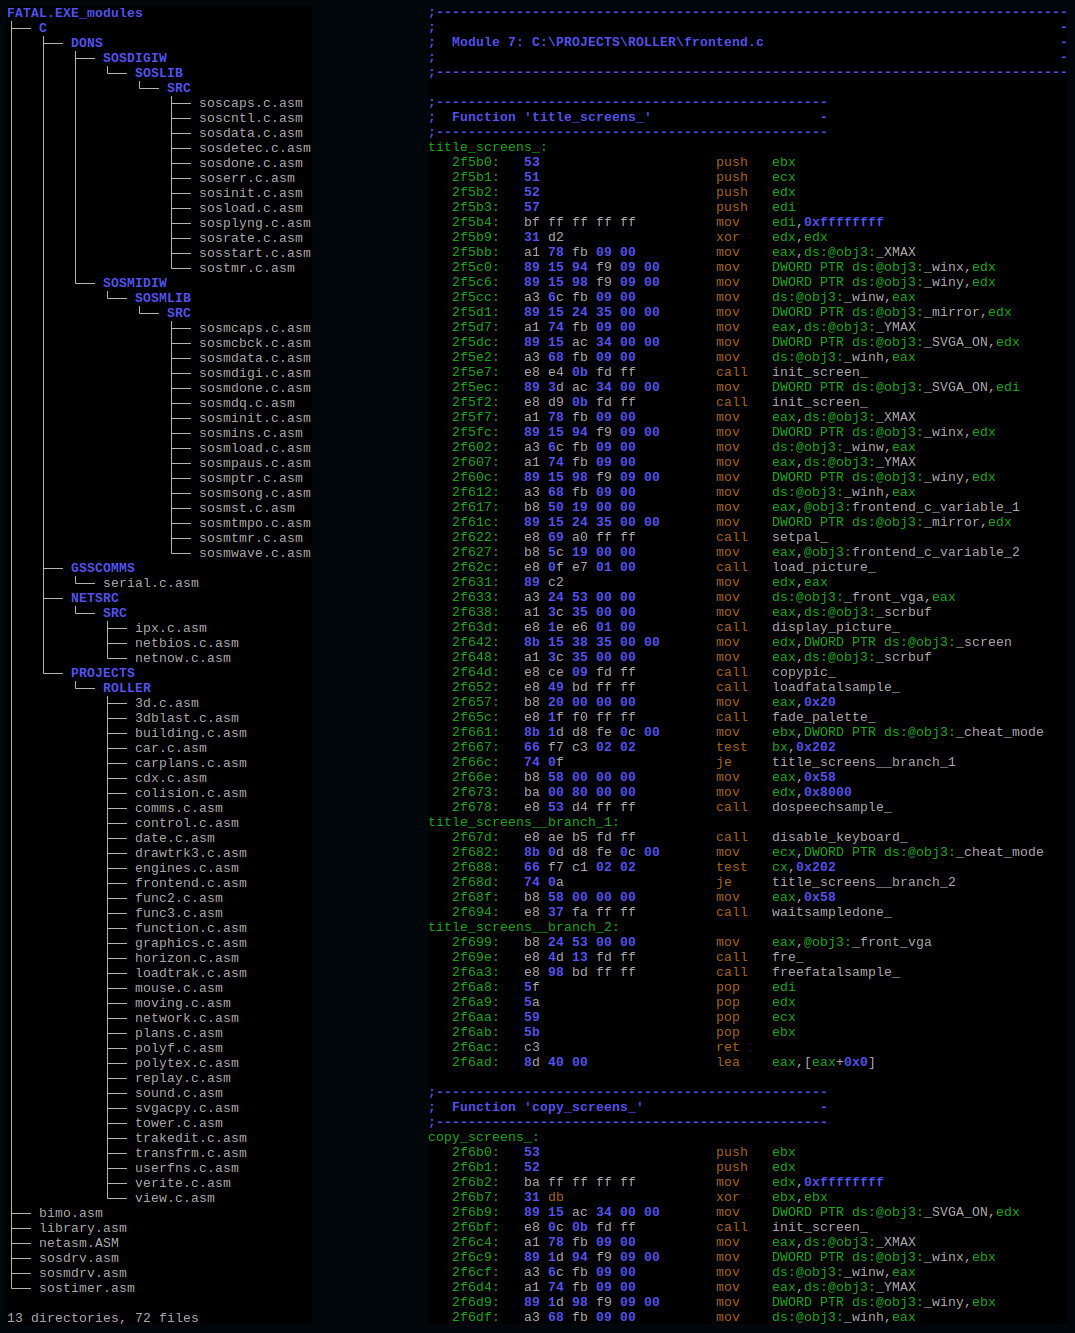
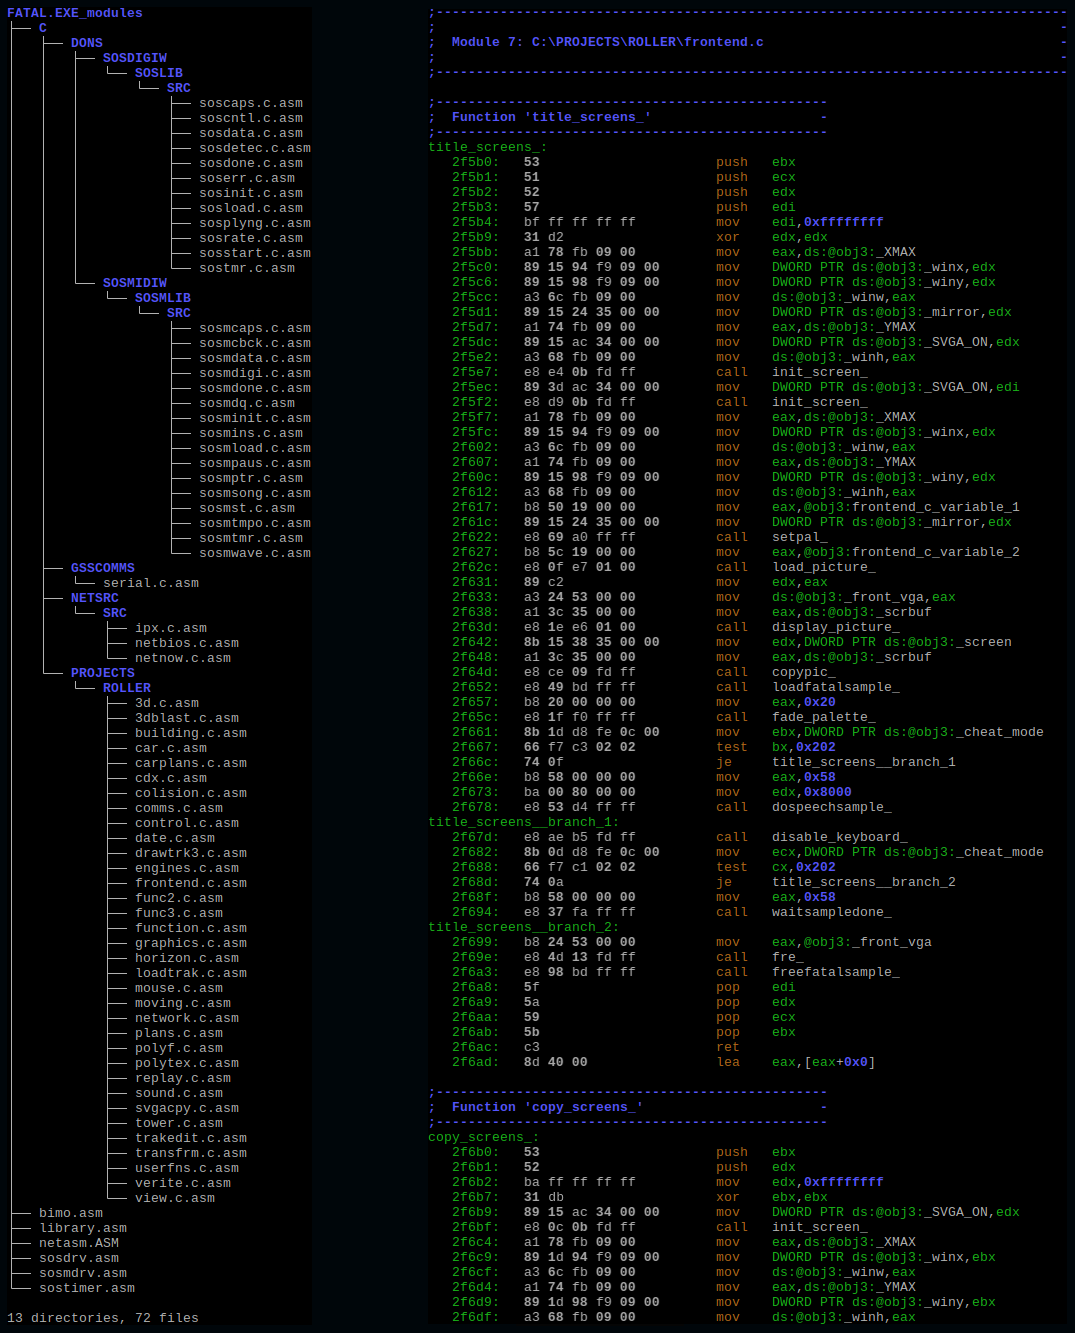
Update README.md, SCREENSHOT.PNG and wcdatool.py
Changes:
- Revised README.md, added TOC and a few links (e.g. to WSL)
- Removed color from hex data in SCREENSHOT.PNG
- Updated wcdatool.py to account for new wording in README.md
  ("Watcom Toolchain")

Changed region(s): [[0.4912, 0.123, 0.614, 0.7382], [0.4912, 0.8612, 0.614, 1.0], [0.4912, 0.7689, 0.5219, 0.7997]]

diff --git a/Wcdatool/wcdatool.py b/Wcdatool/wcdatool.py
@@ -6,7 +6,7 @@
 #  Watcom Disassembly Tool (wcdatool)                                     -
 #                                                                         -
 #  Created by Fonic <https://github.com/fonic>                            -
-#  Date: 06/20/19 - 07/29/23                                              -
+#  Date: 06/20/19 - 10/24/24                                              -
 #                                                                         -
 # -------------------------------------------------------------------------
 
@@ -76,8 +76,8 @@ def main():
 	set_window_title(app_title)
 
 	# Process command line
-	#parser = ArgumentParser(description="Tool to aid disassembling DOS applications created with the Watcom toolchain.", argument_default=argparse.SUPPRESS, allow_abbrev=False, add_help=False)
-	parser = ArgumentParser(description="Tool to aid disassembling DOS applications created with the Watcom toolchain.", allow_abbrev=False, add_help=False)
+	#parser = ArgumentParser(description="Tool to aid disassembling DOS applications created with the Watcom Toolchain.", argument_default=argparse.SUPPRESS, allow_abbrev=False, add_help=False)
+	parser = ArgumentParser(description="Tool to aid disassembling DOS applications created with the Watcom Toolchain.", allow_abbrev=False, add_help=False)
 	parser.add_argument("-wde", "--wdump-exec", action="store", dest="wdump_exec", metavar="PATH", type=str, default="wdump", help="Path to wdump executable")
 	parser.add_argument("-ode", "--objdump-exec", action="store", dest="objdump_exec", metavar="PATH", type=str, default="objdump", help="Path to objdump executable")
 	parser.add_argument("-wdo", "--wdump-output", action="store", dest="wdump_output", metavar="PATH", type=str, help="Path to file containing pre-generated wdump output to read/parse instead of running wdump")

diff --git a/README.md b/README.md
@@ -1,6 +1,6 @@
 # Watcom Disassembly Tool (wcdatool)
 
-Tool to aid disassembling DOS applications created with the *Watcom* toolchain.
+Tool to aid disassembling DOS applications created with the *Watcom Toolchain*.
 
 ## Donations
 
@@ -8,54 +8,66 @@ I'm striving to become a full-time developer of [Free and open-source software (
 
 <a href="https://www.buymeacoffee.com/fonic"><img src="https://raw.githubusercontent.com/fonic/donate-buttons/main/buymeacoffee-button.png" alt="Buy Me A Coffee" height="35"></a>&nbsp;&nbsp;&nbsp;<a href="https://paypal.me/fonicmaxxim"><img src="https://raw.githubusercontent.com/fonic/donate-buttons/main/paypal-button.png" alt="Donate via PayPal" height="35"></a>&nbsp;&nbsp;&nbsp;<a href="https://ko-fi.com/fonic"><img src="https://raw.githubusercontent.com/fonic/donate-buttons/main/kofi-button.png" alt="Donate via Ko-fi" height="35"></a>
 
-## Watcom Toolchain
+## Table Of Contents
 
-Many DOS applications of the 90s, especially games, were developed using the *Watcom* toolchain. Examples are *DOOM*, *Warcraft*, *Syndicate*, *Mortal Kombat*, just to name a few.
+- [The Watcom Toolchain](#the-watcom-toolchain)
+- [Yet Another Disassembly Tool?](#yet-another-disassembly-tool)
+- [Current State / Future Development](#current-state--future-development)
+- [Output Sample](#output-sample)
+- [**Getting Started**](#getting-started)
+- [Wcdatool Usage Information](#wcdatool-usage-information)
+- [Contact Information](#contact-information)
 
-Most end-users probably never have heard of *Watcom*, but might remember applications displaying a startup banner reading something like this: `DOS/4G(W) Protected Mode Run-time [...]`. *DOS/4G(W)* was a popular DOS extender bundled with the *Watcom* toolchain, allowing DOS applications to run in *32-bit protected mode*.
+## The Watcom Toolchain
 
-Nowadays, the *Watcom* toolchain is open source and lives on as [Open Watcom](http://openwatcom.org/) / [Open Watcom v2 Fork](https://open-watcom.github.io/).
+Many DOS applications of the 90s, especially games, were developed using the *Watcom Toolchain*. Notable examples are *DOOM*, *Warcraft*, *Syndicate* and *Mortal Kombat*, just to name a few.
 
-## Why create another disassembly tool?
+Most end-users probably never have heard of *Watcom*, but might remember applications displaying a startup banner reading something like this: `DOS/4G(W) Protected Mode Run-time [...]`. *DOS/4G(W)* was a popular DOS extender bundled with the *Watcom Toolchain*, allowing DOS applications to run in *32-bit protected mode* and thus being able to reach well beyond the limits of 16-bit (MS-)DOS.
 
-The idea for this tool emerged when I discovered that one of my all-time favorite games, *Mortal Kombat*, was mainly written in Assembler (more or less directly ported from the arcade version) and was released *unstripped* (i.e. executable contains debug symbols). I tried using various decompilation/disassembly tools on it, only to discover that none seemed to be capable of dealing with the specifics of *Watcom*-based applications.
+Nowadays, the *Watcom Toolchain* is open source and lives on as [Open Watcom](http://openwatcom.org/) / [Open Watcom v2 Fork](https://open-watcom.github.io/).
 
-Thus, I began writing my own tool. What originally started out as *mkdecomptool* specifically for *Mortal Kombat* is now the general-purpose *Watcom Disassembly Tool (wcdatool)*.
+## Yet Another Disassembly Tool?
+
+The idea for this tool emerged when I discovered that one of my all-time favorite games, *Mortal Kombat* (CD version), was mainly written in Assembler (almost a line-by-line port of the arcade version) and was released *unstripped* (i.e. executable contains debug symbols). I tried using various decompilation/disassembly tools on it, only to realize that none seemed to be capable of dealing with the specifics of *Watcom*-based applications.
+
+Hence, I began writing my own tool. What initially started out as *mkdecomptool* specifically for *Mortal Kombat* gradually became the now general-purpose *Watcom Disassembly Tool (wcdatool)*.
 
 Note that while wcdatool performs the tasks it is designed for quite well, it is not intended to compete with or replace high-end tools like *IDA Pro* or *Ghidra*.
 
-## Current state / future development
+## Current State / Future Development
 
-Wcdatool works quite well in its current state - you'll get a well-readable, reasonably structured disassembly output (*objdump* format, *Intel* syntax). Check out issues [#9](https://github.com/fonic/wcdatool/issues/9) and [#11](https://github.com/fonic/wcdatool/issues/11) for games other than *Mortal Kombat* that wcdatool worked nicely for thus far. **Please note that wcdatool works best when used on executables that contain debug symbols.** If you come across other *unstripped* *Watcom*-based DOS applications that may be used for further testing and development, please let me know.
+Wcdatool works quite well in its current state - you'll get a well-readable, reasonably structured disassembly output (*objdump* format, *Intel* syntax). Check out issues [#9](https://github.com/fonic/wcdatool/issues/9) and [#11](https://github.com/fonic/wcdatool/issues/11) for games other than *Mortal Kombat* that wcdatool worked nicely for thus far. **Please note that wcdatool works best when used on executables that contain debug symbols.** If you come across other *unstripped* *Watcom*-based DOS applications that may be used for further testing and development, [please let me know](https://github.com/fonic/wcdatool/issues/new/choose).
 
-**However, the current approach has reached its EOL.** There is no point in advancing it any further (aside from fixing bugs), as there are limits inherent to the fundamental design that cannot be overcome easily. Thus, the next major goal is to cleanly *rewrite the disassembler module* and transition from *static code disassembly* to *execution flow tracing* (e.g. *Mortal Kombat 2* executable contains code within its data object, which is neither discovered nor analyzed with the current approach). Also, instead of treating objects separately, a *linear unified address space* containing all object data shall be implemented. This will allow to *apply fixups on a binary level*, which should simplify dealing with references that cross object boundaries and with placeholders (stubs) that are replaced via fixups at run time.
+The next major goal is to cleanly *rewrite the disassembler module* and transition from *static code disassembly* to *execution flow tracing*. Also, instead of treating an executable's objects separately, a *linear unified address space* containing all object data will be the basis for future processing. This will allow to *apply fixups on a binary level*, which should simplify dealing with references that cross object boundaries, such as placeholders/stubs (which are patched via fixups at run time). *Mortal Kombat 2's executable* will be baseline for the new approach, as it contains code regions within its data object (which are currently neither discovered nor processed) and extensively uses placeholders/stubs for jump/call targets that cross object boundaries (which are currently not handled properly).
 
 Last but not least, wcdatool in its current state is relatively slow, as performance has not been the main focus during development. [Cython](https://cython.org/) might be utilized in the future to increase performance.
 
-## Output sample
+## Output Sample
 
 Output sample for *Fatal Racing* (`FATAL.EXE`) - the left side shows the reconstructed source files, the right side shows a portion of formatted disassembly:
 
 ![Screenshot](https://raw.githubusercontent.com/fonic/wcdatool/master/SCREENSHOT.png)
 
-## How to use it
+## Getting Started
 
-There are multiple ways to use *wcdatool*, but the following instructions should get you started. Don't let the amount of information provided below discourage you, the tool is easier to use than it might seem. The instructions assume that you are using *Linux*. For *Windows* users, the easiest way to go is to use *Windows Subsystem for Linux (WSL)*:
+There are multiple ways to use *wcdatool*, but the following instructions should get you started. Don't let the amount of information provided below discourage you, the tool is easier to use than it might seem. The instructions assume that you are using *Linux*. For *Windows* users, the easiest way to go is to use [Windows Subsystem for Linux (WSL)](https://learn.microsoft.com/en-us/windows/wsl/install):
 
-1. Requirements:
+1. **Check the following requirements:**
 
-   Wcdatool: *Python (>=3.6.0)*, *wdump* (part of [Open Watcom v2](https://open-watcom.github.io/)), *objdump* (part of [binutils](https://sourceware.org/binutils/))<br/>
+   **Wcdatool:**<br/>
+   *Python (>=3.6.0)*, *wdump* (part of [Open Watcom v2](https://open-watcom.github.io/)), *objdump* (part of [binutils](https://sourceware.org/binutils/))<br/>
    (both *wdump* and *objdump* need to be accessible via `PATH`)
 
-   Open Watcom v2: *gcc* -or- *clang* (for 64-bit builds), *DOSEMU* -or- *DOSBox* (for *wgml* utility)<br/>
+   **Open Watcom v2:**<br/>
+   *gcc* -or- *clang* (for 64-bit builds), *DOSEMU* -or- *DOSBox* (for *wgml* utility)<br/>
    (only relevant if *Open Watcom v2* is built from sources; the project also provides [pre-compiled binaries](https://github.com/open-watcom/open-watcom-v2/releases))
 
-2. Clone *wcdatool*'s repository (-or- download and extract a [release](https://github.com/fonic/wcdatool/releases)):
+2. **Clone *wcdatool*'s repository** (-or- download and extract a [release](https://github.com/fonic/wcdatool/releases)):
    ```
    # git clone https://github.com/fonic/wcdatool.git
    ```
 
-3. Download, build and install *Open Watcom v2* (-or- download and install [pre-compiled binaries](https://github.com/open-watcom/open-watcom-v2/releases)):
+3. **Download, build and install *Open Watcom v2*** (-or- download and install [pre-compiled binaries](https://github.com/open-watcom/open-watcom-v2/releases)):
    ```
    # cd wcdatool/OpenWatcom
    # ./1_download.sh
@@ -64,7 +76,7 @@ There are multiple ways to use *wcdatool*, but the following instructions should
    ```
    **NOTE:** these scripts are provided for convenience, they are not part of the *Open Watcom v2* project itself
 
-4. Copy the executables to be disassembled to `wcdatool/Executables`, e.g. for *Mortal Kombat*:
+4. **Copy the executables to be disassembled to `wcdatool/Executables`**, e.g. for *Mortal Kombat*:
    ```
    # cp <source-dir>/MK1.EXE wcdatool/Executables
    # cp <source-dir>/MK2.EXE wcdatool/Executables
@@ -72,13 +84,13 @@ There are multiple ways to use *wcdatool*, but the following instructions should
    ```
    **NOTE:** file names of executables are used to locate corresponding object hint files (see step 5)
 
-5. Create/update object hint files in `wcdatool/Hints` *(optional; skip when just getting started)*:
+5. **Create/update object hint files in `wcdatool/Hints`** *(optional; skip when just getting started)*:
 
    Object hints may be used to manually affect the disassembly process (e.g. force decoding of certain regions as code/data, specify data decoding mode, define data structs, add comments). Please refer to included object hint files for *Mortal Kombat*, *Fatal Racing* and *Pac-Man VR* for details regarding capabilities and syntax.
 
    **NOTE:** hint files must be stored as `wcdatool/Hints/<name-of-executable>.txt` (case-sensitive, e.g. `wcdatool/Executables/MK1.EXE` -> `wcdatool/Hints/MK1.EXE.txt`) to be picked up automatically by the included scripts
 
-6. Let *wcdatool* process all provided executables (for the example executables listed in step 4, this will take ~3min. and generate ~1.5GB worth of data):
+6. **Let *wcdatool* process all provided executables** (for the example executables listed in step 4, this will take ~3min. and generate ~1.5GB worth of data):
    ```
    # wcdatool/Scripts/process-all-executables.sh
    ```
@@ -95,16 +107,16 @@ There are multiple ways to use *wcdatool*, but the following instructions should
 
    **NOTE:** it is completely normal and expected for *wcdatool* to produce LOTS of warnings; ignore those when just getting started (see step 8 for details)
 
-7. Have a look at the results in `wcdatool/Output`:
+7. **Have a look at the results in `wcdatool/Output`**:
    - File `<name-of-executable>_zzz_log.txt` contains *log messages* (same as console output, but without coloring/formatting)
    - Files `<name-of-executable>_disasm_object_x_disassembly_plain.asm` contain *plain disassembly* (unmodified *objdump* output, useful for reference)
    - Files `<name-of-executable>_disasm_object_x_disassembly_formatted.asm` contain *formatted disassembly* (this is arguably the most interesting/useful output)
    - Files `<name-of-executable>_disasm_object_x_disassembly_formatted_deduplicated.asm` contain *formatted deduplicated disassembly* (same as above, but with data portions being compressed for increased readability where applicable)
-   - Folder `<name-of-executable>_modules` contains *formatted disassembly split into separate files* (same as above, additionally attempts to reconstruct an application's original source files if corresponding debug information is available)
+   - Folder `<name-of-executable>_modules` contains *formatted disassembly split into separate files* (same as above, attempts to reconstruct an application's original source file structure if corresponding debug information is available)
 
    **NOTE:** if you are new to assembler/assembly language, check out this [x86 Assembly Guide](https://www.cs.virginia.edu/~evans/cs216/guides/x86.html)
 
-8. Refine the output by analyzing the disassembly, updating the object hints and re-running *wcdatool* (i.e. loop steps 5-8):
+8. **Refine the output by analyzing the disassembly**, updating the object hints and re-running *wcdatool* (i.e. loop steps 5-8):
    - Identify and add hints for regions in code objects that are actually data (look for `; misplaced item` comments, `(bad)` assembly instructions and labels with trailing `; access size` comments)
    - Identify and add hints for regions in data objects that are actually code (look for `call`/`jmp` instructions in code objects with fixup targets pointing to data objects)
    - Check section `Possible object hints` of *wcdatool*'s console output / log file for suggestions (not guaranteed to be correct, but likely a good starting point)
@@ -112,7 +124,7 @@ There are multiple ways to use *wcdatool*, but the following instructions should
 
    **NOTE:** this is by far the most time-consuming part, but *crucial* to achieve good and clean results (!)
 
-## Wcdatool usage information
+## Wcdatool Usage Information
 
 ```
 Usage: wcdatool.py [-wde|--wdump-exec PATH] [-ode|--objdump-exec PATH]
@@ -121,7 +133,7 @@ Usage: wcdatool.py [-wde|--wdump-exec PATH] [-ode|--objdump-exec PATH]
                    [-id|--interactive-debugger] [-is|--interactive-shell]
                    [-h|--help] FILE
 
-Tool to aid disassembling DOS applications created with the Watcom toolchain.
+Tool to aid disassembling DOS applications created with the Watcom Toolchain.
 
 Positionals:
   FILE                            Path to input executable to disassemble
@@ -148,10 +160,10 @@ Options:
   -h, --help                      Display usage information (this message)
 ```
 
-## How to contact me
+## Contact Information
 
-If you want to get in touch with me, give feedback, ask questions or simply need someone to talk to, please open an [Issue](https://github.com/fonic/wcdatool/issues) here on GitHub. Make sure to leave an email address if you prefer personal/private contact.
+If you want to get in touch with me, give feedback, ask questions or simply need someone to talk to, please [open an issue](https://github.com/fonic/wcdatool/issues/new/choose) here on GitHub. Make sure to provide an email address if you prefer personal/private contact.
 
 ##
 
-_Last updated: 08/31/24_
+_Last updated: 10/24/24_
